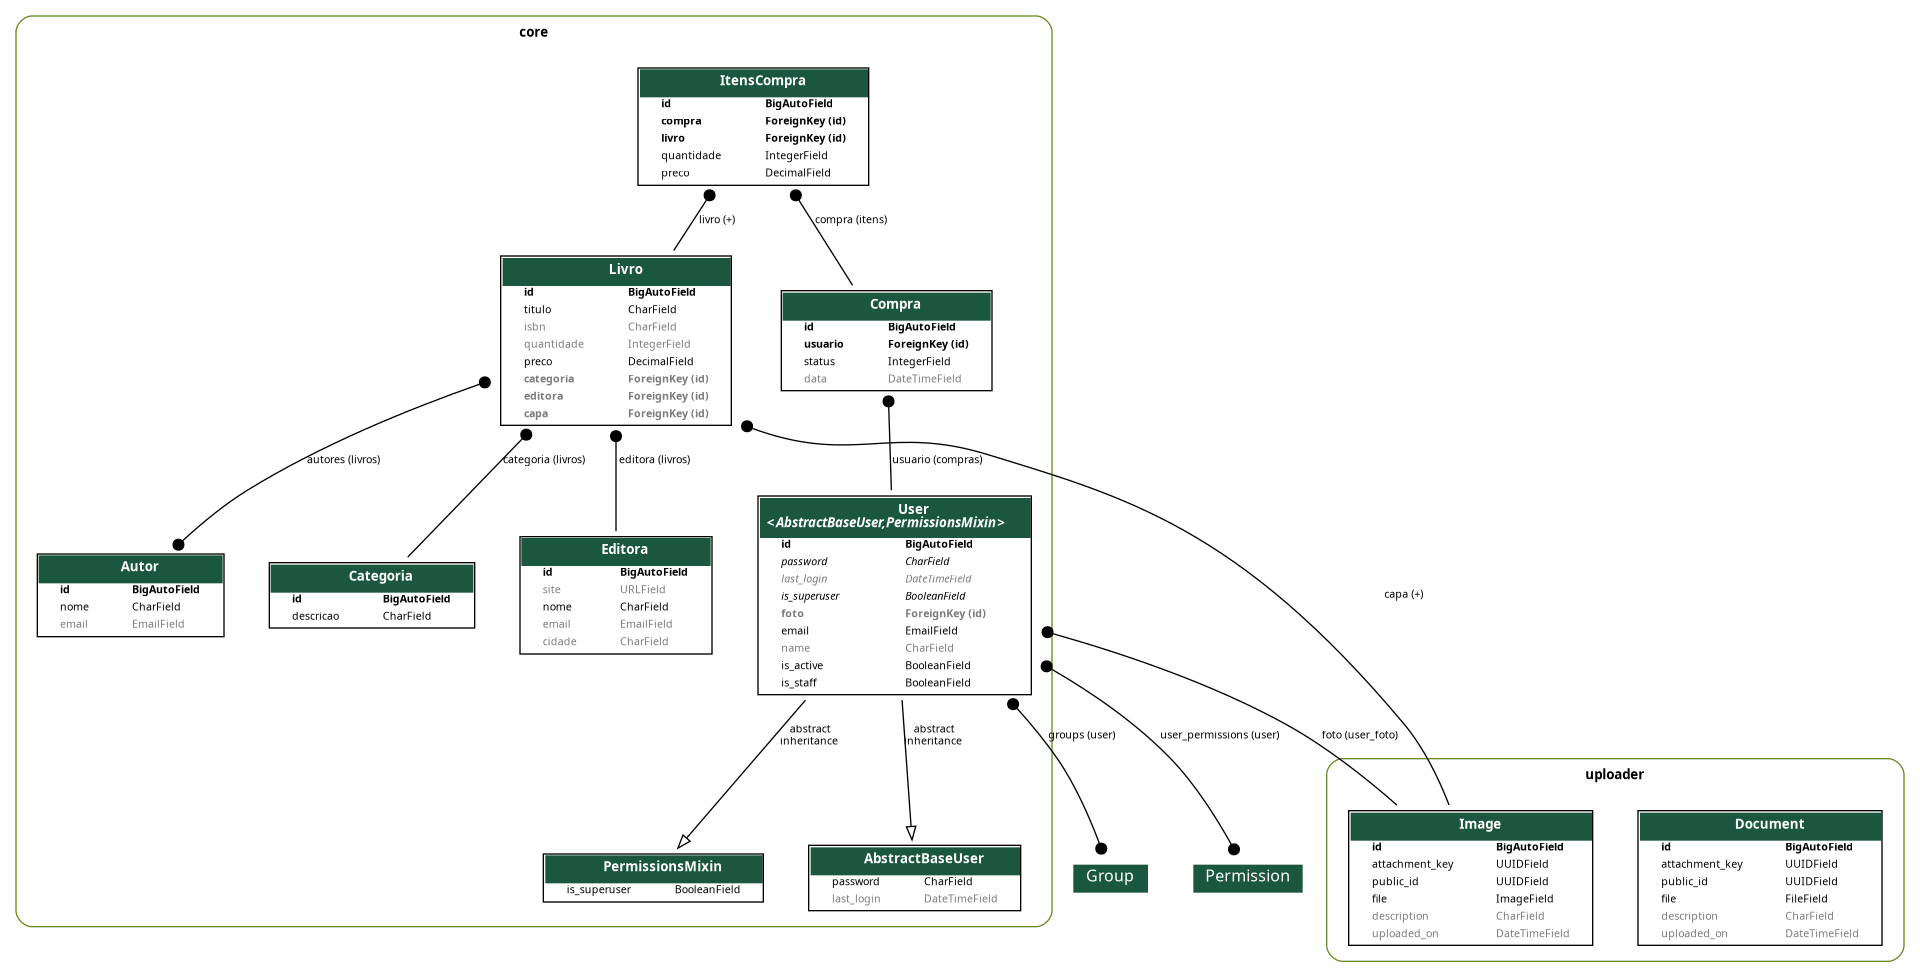
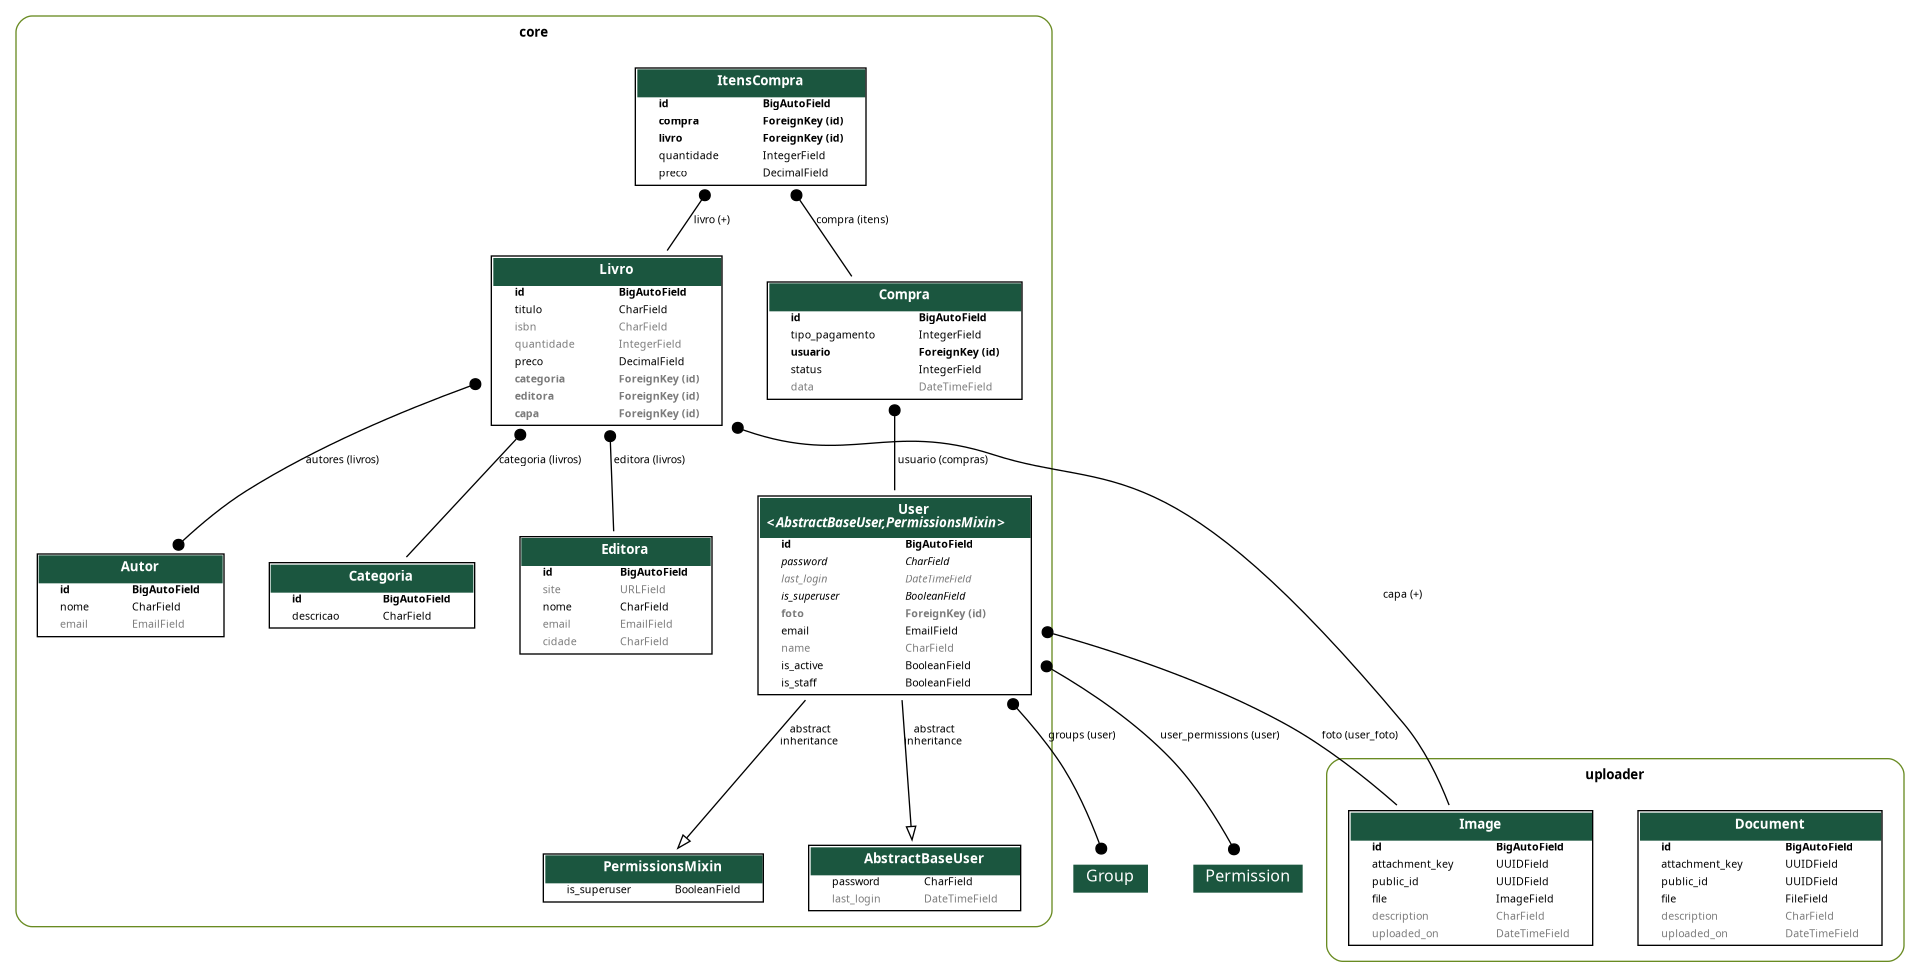
feat: adicionando tipo de pagamento à entidade de Compra

diff --git a/core/models/compra.py b/core/models/compra.py
@@ -11,6 +11,20 @@ class Compra(models.Model):
         PAGO = 3, 'Pago'
         ENTREGUE = 4, 'Entregue'
 
+    class TipoPagamento(models.IntegerChoices):
+        CARTAO_CREDITO = 1, 'Cartão de Crédito'
+        CARTAO_DEBITO = 2, 'Cartão de Débito'
+        PIX = 3, 'PIX'
+        BOLETO = 4, 'Boleto'
+        TRANSFERENCIA_BANCARIA = 5, 'Transferência Bancária'
+        DINHEIRO = 6, 'Dinheiro'
+        OUTRO = 7, 'Outro'
+
+    tipo_pagamento = models.IntegerField(
+        choices=TipoPagamento.choices,
+        default=TipoPagamento.CARTAO_CREDITO
+    )
+
     usuario = models.ForeignKey(User, on_delete=models.PROTECT, related_name='compras')
     status = models.IntegerField(choices=StatusCompra.choices, default=StatusCompra.CARRINHO)
     data = models.DateTimeField(auto_now_add=True) 

diff --git a/core/serializers/compra.py b/core/serializers/compra.py
@@ -90,8 +90,9 @@ class CompraSerializer(ModelSerializer):
     usuario = CharField(source='usuario.email', read_only=True)
     status = CharField(source='get_status_display', read_only=True)
     data = DateTimeField(read_only=True)
+    tipo_pagamento = CharField(source='get_tipo_pagamento_display', read_only=True) # novo campo
     itens = ItensCompraSerializer(many=True, read_only=True)
 
     class Meta:
         model = Compra
-        fields = ('id', 'usuario', 'status', 'total', 'data', 'itens')
+        fields = ('id', 'usuario', 'status', 'total', 'data', 'tipo_pagamento', 'itens') # modificado

diff --git a/core/migrations/0018_compra_tipo_pagamento.py b/core/migrations/0018_compra_tipo_pagamento.py
@@ -1,0 +1,18 @@
+# Generated by Django 5.2.13 on 2026-10-13 11:16
+
+from django.db import migrations, models
+
+
+class Migration(migrations.Migration):
+
+    dependencies = [
+        ('core', '0017_itenscompra_preco'),
+    ]
+
+    operations = [
+        migrations.AddField(
+            model_name='compra',
+            name='tipo_pagamento',
+            field=models.IntegerField(choices=[(1, 'Cartão de Crédito'), (2, 'Cartão de Débito'), (3, 'PIX'), (4, 'Boleto'), (5, 'Transferência Bancária'), (6, 'Dinheiro'), (7, 'Outro')], default=1),
+        ),
+    ]
